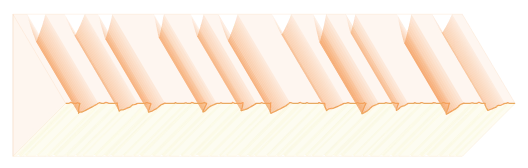
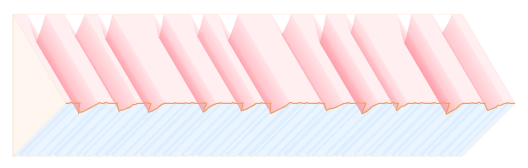
Give the cutting edge diagram distinct light and dark palettes

diff --git a/public/misc/two-surfaces/diagram.html b/public/misc/two-surfaces/diagram.html
@@ -1507,6 +1507,10 @@ h3 { display: none; }
  --card-foreground: var(--foreground) !important;
  --popover-foreground: var(--foreground) !important;
  --primary: light-dark(#8a4f7d, #f0e891) !important;
+ /* Semantic diagram palettes: light / dark; independent of the site accents. */
+ --edge-back: light-dark(#b63e4a, #ff8c99);
+ --edge-bevel: light-dark(#1769b0, #71b7ff);
+ --edge-burr: light-dark(#087f6b, #60d9ba);
  --muted-foreground: color-mix(in srgb, var(--foreground) 65%, transparent) !important;
  --secondary: color-mix(in srgb, var(--foreground) 5%, var(--background)) !important;
  --font-sans: ui-monospace, SFMono-Regular, Menlo, Monaco, Consolas, &quot;Liberation Mono&quot;, &quot;Courier New&quot;, monospace !important;
@@ -1813,8 +1817,12 @@ h3 { display: none; }
     #chisel-edge-explorer h3 { padding-right: 96px; margin-bottom: 16px; }
     #chisel-edge-explorer .edge-control-label { display: flex; align-items: center; gap: 8px; }
     #chisel-edge-explorer .edge-swatch { width: 20px; height: 3px; display: inline-block; flex: 0 0 auto; }
-    #chisel-edge-explorer .edge-back-swatch { background: var(--viz-series-2); }
-    #chisel-edge-explorer .edge-bevel-swatch { background: var(--viz-series-1); }
+    #chisel-edge-explorer .edge-back-swatch { background: var(--edge-back); }
+    #chisel-edge-explorer .edge-bevel-swatch { background: var(--edge-bevel); }
+    #chisel-edge-explorer .edge-back-label,
+    #chisel-edge-explorer .edge-figure .edge-back-label { color: var(--edge-back); fill: var(--edge-back); }
+    #chisel-edge-explorer .edge-bevel-label,
+    #chisel-edge-explorer .edge-figure .edge-bevel-label { color: var(--edge-bevel); fill: var(--edge-bevel); }
     #chisel-edge-explorer .edge-figure { display: block; width: 100%; overflow: visible; }
     #chisel-edge-explorer .edge-figure text { fill: var(--foreground); font-family: inherit; font-weight: 400; }
     #chisel-edge-explorer .edge-figure .edge-muted { fill: var(--muted-foreground); }
@@ -1826,7 +1834,7 @@ h3 { display: none; }
   &lt;h3&gt;Two surfaces, one cutting edge&lt;/h3&gt;
   &lt;div class=&quot;viz-controls&quot;&gt;
     &lt;label class=&quot;form-label&quot; for=&quot;edge-back-grit&quot;&gt;
-      &lt;span class=&quot;edge-control-label&quot;&gt;&lt;span class=&quot;edge-swatch edge-back-swatch&quot; aria-hidden=&quot;true&quot;&gt;&lt;/span&gt;Back finish&lt;/span&gt;
+      &lt;span class=&quot;edge-control-label edge-back-label&quot;&gt;&lt;span class=&quot;edge-swatch edge-back-swatch&quot; aria-hidden=&quot;true&quot;&gt;&lt;/span&gt;Back finish&lt;/span&gt;
       &lt;select class=&quot;form-select&quot; id=&quot;edge-back-grit&quot;&gt;
         &lt;option value=&quot;1000&quot;&gt;1,000 grit&lt;/option&gt;
         &lt;option value=&quot;4000&quot;&gt;4,000 grit&lt;/option&gt;
@@ -1834,7 +1842,7 @@ h3 { display: none; }
       &lt;/select&gt;
     &lt;/label&gt;
     &lt;label class=&quot;form-label&quot; for=&quot;edge-bevel-grit&quot;&gt;
-      &lt;span class=&quot;edge-control-label&quot;&gt;&lt;span class=&quot;edge-swatch edge-bevel-swatch&quot; aria-hidden=&quot;true&quot;&gt;&lt;/span&gt;Bevel finish at the edge&lt;/span&gt;
+      &lt;span class=&quot;edge-control-label edge-bevel-label&quot;&gt;&lt;span class=&quot;edge-swatch edge-bevel-swatch&quot; aria-hidden=&quot;true&quot;&gt;&lt;/span&gt;Bevel finish at the edge&lt;/span&gt;
       &lt;select class=&quot;form-select&quot; id=&quot;edge-bevel-grit&quot;&gt;
         &lt;option value=&quot;1000&quot;&gt;1,000 grit&lt;/option&gt;
         &lt;option value=&quot;4000&quot;&gt;4,000 grit&lt;/option&gt;
@@ -1946,8 +1954,8 @@ h3 { display: none; }
       farBevel.push([start + span * u - dx, edgeY + bevelLength - thickness * v]);
     }
     node(&#x27;path&#x27;, {d: path([farBack[0], edge[0], farBevel[0]], true), fill: &#x27;var(--muted)&#x27;, stroke: &#x27;var(--border)&#x27;, &#x27;stroke-width&#x27;: 1});
-    node(&#x27;path&#x27;, {d: path([...farBack, ...edge.slice().reverse()], true), fill: &#x27;var(--viz-series-2)&#x27;, &#x27;fill-opacity&#x27;: 0.09});
-    node(&#x27;path&#x27;, {d: path([...edge, ...farBevel.slice().reverse()], true), fill: &#x27;var(--viz-series-1)&#x27;, &#x27;fill-opacity&#x27;: 0.13});
+    node(&#x27;path&#x27;, {d: path([...farBack, ...edge.slice().reverse()], true), fill: &#x27;var(--edge-back)&#x27;, &#x27;fill-opacity&#x27;: 0.14});
+    node(&#x27;path&#x27;, {d: path([...edge, ...farBevel.slice().reverse()], true), fill: &#x27;var(--edge-bevel)&#x27;, &#x27;fill-opacity&#x27;: 0.14});
 
     // Individual strips are the walls of scratches. Both faces share one intersection.
     for (let i = 0; i &lt; samples; i++) {
@@ -1955,11 +1963,11 @@ h3 { display: none; }
       const v = Math.max(profiles.bevel[i], profiles.bevel[i + 1]);
       if (b &gt; 0.0001) node(&#x27;path&#x27;, {
         d: path([farBack[i], farBack[i + 1], edge[i + 1], edge[i]], true),
-        fill: &#x27;var(--viz-series-2)&#x27;, &#x27;fill-opacity&#x27;: Math.min(0.6, 0.09 + b * 2.5)
+        fill: &#x27;var(--edge-back)&#x27;, &#x27;fill-opacity&#x27;: Math.min(0.6, 0.09 + b * 2.5)
       });
       if (v &gt; 0.0001) node(&#x27;path&#x27;, {
         d: path([edge[i], edge[i + 1], farBevel[i + 1], farBevel[i]], true),
-        fill: &#x27;var(--viz-series-1)&#x27;, &#x27;fill-opacity&#x27;: Math.min(0.6, 0.09 + v * 2.5)
+        fill: &#x27;var(--edge-bevel)&#x27;, &#x27;fill-opacity&#x27;: Math.min(0.6, 0.09 + v * 2.5)
       });
     }
     node(&#x27;path&#x27;, {d: path([farBack[0], farBack[samples], edge[samples], farBevel[samples], farBevel[0], farBack[0]]), fill: &#x27;none&#x27;, stroke: &#x27;var(--border)&#x27;, &#x27;stroke-width&#x27;: 1});
@@ -1967,14 +1975,14 @@ h3 { display: none; }
 
     if (profiles.burr &gt; 0.005) {
       const fringe = edge.map(([x, y], i) =&gt; [x + 3 * profiles.burr, y - profiles.burr * (9 + 3 * Math.sin(i * 0.1))]);
-      node(&#x27;path&#x27;, {d: path([...edge, ...fringe.reverse()], true), fill: &#x27;var(--viz-series-3)&#x27;, &#x27;fill-opacity&#x27;: 0.55});
+      node(&#x27;path&#x27;, {d: path([...edge, ...fringe.reverse()], true), fill: &#x27;var(--edge-burr)&#x27;, &#x27;fill-opacity&#x27;: 0.55});
     }
 
-    node(&#x27;text&#x27;, {x: 20, y: 34}, &#x27;Back&#x27;);
+    node(&#x27;text&#x27;, {x: 20, y: 34, class: &#x27;edge-back-label&#x27;}, &#x27;Back&#x27;);
     node(&#x27;path&#x27;, {d: path([[44, 43], [44, 58], [start + span * 0.23 - dx * 0.65, edgeY - backLength * 0.65]]), class: &#x27;edge-leader&#x27;});
     node(&#x27;text&#x27;, {x: w - 20, y: edgeY - 44, &#x27;text-anchor&#x27;: &#x27;end&#x27;}, &#x27;Cutting edge&#x27;);
     node(&#x27;path&#x27;, {d: path([[w - 34, edgeY - 35], [w - 34, edgeY - 15], edge[Math.round(samples * 0.91)]]), class: &#x27;edge-leader&#x27;});
-    node(&#x27;text&#x27;, {x: 20, y: edgeY + bevelLength + 28}, &#x27;Bevel at the edge&#x27;);
+    node(&#x27;text&#x27;, {x: 20, y: edgeY + bevelLength + 28, class: &#x27;edge-bevel-label&#x27;}, &#x27;Bevel at the edge&#x27;);
     node(&#x27;path&#x27;, {d: path([[135, edgeY + bevelLength + 23], [start + span * 0.42 - dx * 0.65, edgeY + bevelLength * 0.65]]), class: &#x27;edge-leader&#x27;});
 
     node(&#x27;text&#x27;, {x: 20, y: zoomTitleY, &#x27;font-weight&#x27;: 500}, narrow ? &#x27;Edge outline · back view&#x27; : &#x27;Edge outline · viewed from the back&#x27;);
@@ -1984,12 +1992,12 @@ h3 { display: none; }
     for (let i = 0; i &lt; samples; i++) {
       const b = Math.max(profiles.back[i], profiles.back[i + 1]);
       const v = Math.max(profiles.bevel[i], profiles.bevel[i + 1]);
-      const color = b + v &lt; 0.001 ? &#x27;var(--foreground)&#x27; : b &gt;= v ? &#x27;var(--viz-series-2)&#x27; : &#x27;var(--viz-series-1)&#x27;;
+      const color = b + v &lt; 0.001 ? &#x27;var(--foreground)&#x27; : b &gt;= v ? &#x27;var(--edge-back)&#x27; : &#x27;var(--edge-bevel)&#x27;;
       node(&#x27;path&#x27;, {d: path([outline[i], outline[i + 1]]), fill: &#x27;none&#x27;, stroke: color, &#x27;stroke-width&#x27;: 2.2, &#x27;stroke-linecap&#x27;: &#x27;round&#x27;});
     }
     if (profiles.burr &gt; 0.005) {
       const fringe = outline.map(([x, y], i) =&gt; [x, y - profiles.burr * (12 + 4 * Math.sin(i * 0.11) + 2 * Math.sin(i * 0.27))]);
-      node(&#x27;path&#x27;, {d: path([...outline, ...fringe.reverse()], true), fill: &#x27;var(--viz-series-3)&#x27;, &#x27;fill-opacity&#x27;: 0.45});
+      node(&#x27;path&#x27;, {d: path([...outline, ...fringe.reverse()], true), fill: &#x27;var(--edge-burr)&#x27;, &#x27;fill-opacity&#x27;: 0.45});
       node(&#x27;text&#x27;, {x: w - 28, y: bottom - 14, &#x27;text-anchor&#x27;: &#x27;end&#x27;}, &#x27;Thin foil burr&#x27;);
     } else {
       node(&#x27;text&#x27;, {x: w - 28, y: bottom - 14, &#x27;text-anchor&#x27;: &#x27;end&#x27;, class: &#x27;edge-muted text-small&#x27;}, &#x27;Steel&#x27;);

diff --git a/MISC.md b/MISC.md
@@ -16,8 +16,12 @@ The Misc page at `/misc/` discovers metadata at build time and lists entries new
 
 Each diagram.html is a standalone document. Keep local assets in its folder and use relative paths. The shared React page provides the title, navigation, and theme toggle. Preserve the sandbox when importing a Codex visualization export. Check mobile layout, light/dark appearance, and controls in an ordinary browser; exports may depend on external CDNs.
 
-The homepage links to `/misc/`. Entry URLs render through the same React shell (Cloudflare Pages SPA fallback), which embeds `diagram.html`. The visualization accepts a `site-theme` message from its same-origin parent and forwards it into the sandbox without resetting interaction state. Its colors and typography use the homepage palette in both themes.
+The homepage links to `/misc/`. Entry URLs render through the same React shell (Cloudflare Pages SPA fallback), which embeds `diagram.html`. The visualization accepts a `site-theme` message from its same-origin parent and forwards it into the sandbox without resetting interaction state. Its page backgrounds, typography, and general controls use the homepage theme. Semantic diagram colors use their own palettes.
 
 Each list entry includes a small static preview. `preview` is a required image filename in the entry folder (SVG, PNG, WebP, or JPEG); optional `previewDark` selects a separate image when the site’s dark theme is active. Use a representative diagram snapshot, with fine labels removed if they would be unreadable at thumbnail size. The list supplies an accessible title, so preview images use empty alt text. Avoid live iframes in the list.
 
 Keep the embedded document backgrounds transparent, including any nested sandbox, so the site’s theme-toggle hover shadow follows the visible diagram instead of the iframe rectangle. The host and embedded documents must use the same `color-scheme`; browsers can otherwise paint an opaque iframe canvas even with transparent CSS backgrounds. A standalone export can keep its own themed background when opened directly.
+
+Give each diagram explicit light and dark semantic palettes. Define a light value and a dark value for each concept, retaining a recognizable hue family across themes. Choose colors that remain distinguishable from each other, surrounding text, and site accents. Use stronger colors for swatches, lines, and boundaries, and softer versions for large filled areas. Keep the mapping consistent across controls, labels, surfaces, and previews. Retain labels or other cues so meaning does not depend solely on color, and check the full diagram and thumbnail in both themes.
+
+The cutting-edge diagram uses coral for the back (`#b63e4a` / `#ff8c99`), blue for the bevel (`#1769b0` / `#71b7ff`), and teal for the burr (`#087f6b` / `#60d9ba`), with light values first. These are diagram-specific tokens, independent of the site’s primary/accent colors.
